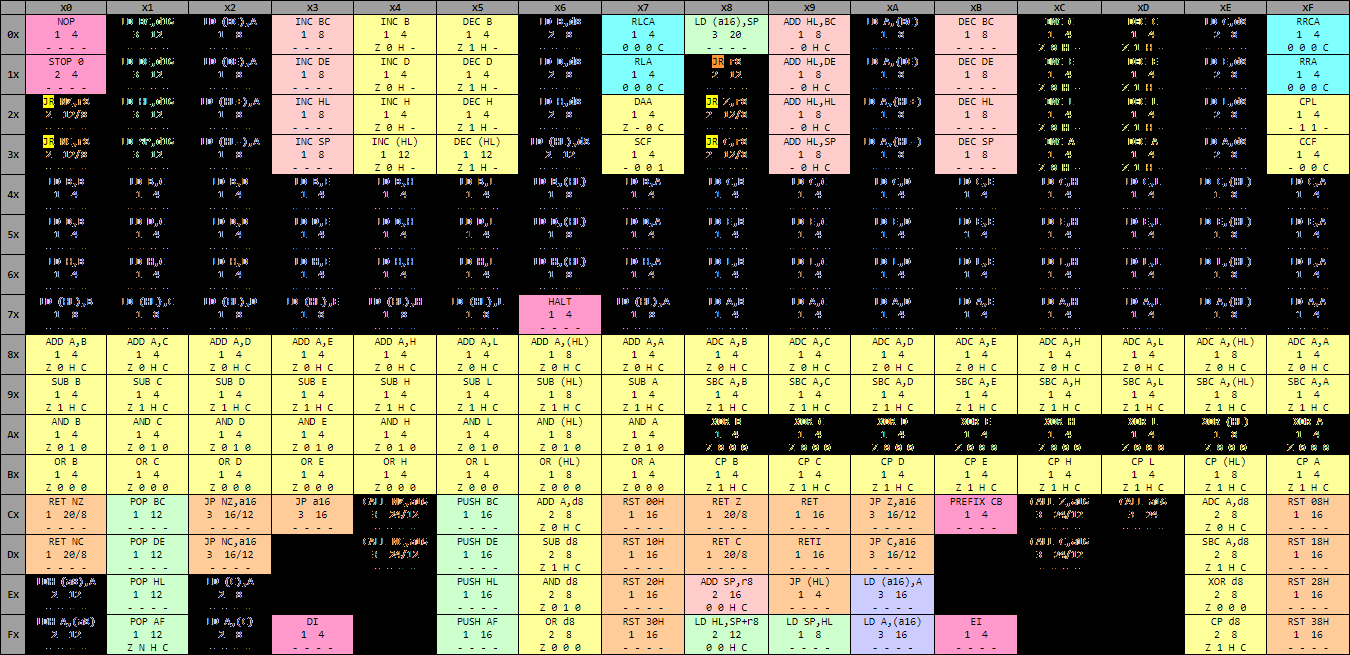
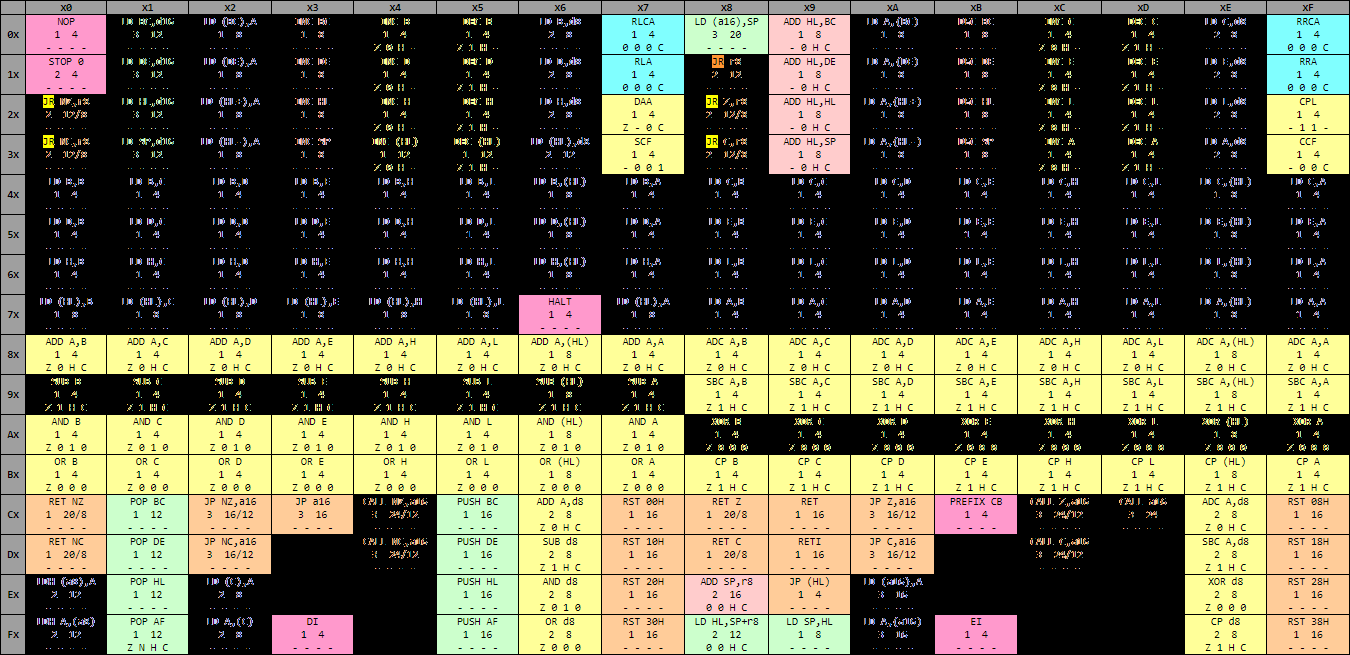
...

diff --git a/gbCPU.decode.c b/gbCPU.decode.c
@@ -3,6 +3,7 @@
 
 #define OPL   "%s %d"
 #define OPR   "%s %s"
+#define OPB   "%s %0#4x"
 #define OPW   "%s %0#6x"
 #define OPRL  "%s %s, %d"
 #define OPRR  "%s %s, %s"
@@ -10,6 +11,8 @@
 #define OPRW  "%s %s, %0#6x"
 #define OPBMR "%s (%0#4x), %s"
 #define OPRBM "%s %s, (%0#4x)"
+#define OPWMR "%s (%0#6x), %s"
+#define OPRWM "%s %s, (%0#6x)"
 
 void DecodeExecuteCB(BYTE opcode, FILE *output);
 
@@ -45,6 +48,16 @@ void DecodeExecute(BYTE opcode, FILE *output)
         case 0x3a: fprintf(output, OPRR, "LD", "A", "(HL-)");
                    break;
 
+        // Increment word
+        case 0x03: fprintf(output, OPR, "INC", "BC");
+                   break;
+        case 0x13: fprintf(output, OPR, "INC", "DE");
+                   break;
+        case 0x23: fprintf(output, OPR, "INC", "HL");
+                   break;
+        case 0x33: fprintf(output, OPR, "INC", "SP");
+                   break;                                      
+
         // Load immediate byte into register
         case 0x06: fprintf(output, OPRB, "LD", "B", Fetch(output));
                    break;
@@ -63,24 +76,50 @@ void DecodeExecute(BYTE opcode, FILE *output)
         case 0x3e: fprintf(output, OPRB, "LD", "A", Fetch(output));
                    break;                                                                                               
 
-        // Increment
+        // Decrement word
+        case 0x0b: fprintf(output, OPR, "DEC", "BC");
+                   break;
+        case 0x1b: fprintf(output, OPR, "DEC", "DE");
+                   break;
+        case 0x2b: fprintf(output, OPR, "DEC", "HL");
+                   break;
+        case 0x3b: fprintf(output, OPR, "DEC", "SP");
+                   break;                                   
+
+        // Increment byte
+        case 0x04: fprintf(output, OPR, "INC", "B");
+                   break;
         case 0x0c: fprintf(output, OPR, "INC", "C");
+                   break;
+        case 0x14: fprintf(output, OPR, "INC", "D");
                    break;
         case 0x1c: fprintf(output, OPR, "INC", "E");
                    break;
+        case 0x24: fprintf(output, OPR, "INC", "H");
+                   break;
         case 0x2c: fprintf(output, OPR, "INC", "L");
+                   break;
+        case 0x34: fprintf(output, OPR, "INC", "(HL)");
                    break;
         case 0x3c: fprintf(output, OPR, "INC", "A");
                    break;
 
-        // Decrement
-        case 0x0d: fprintf(output, OPR, "INC", "C");
+        // Decrement byte
+        case 0x05: fprintf(output, OPR, "DEC", "B");
                    break;
-        case 0x1d: fprintf(output, OPR, "INC", "E");
+        case 0x0d: fprintf(output, OPR, "DEC", "C");
                    break;
-        case 0x2d: fprintf(output, OPR, "INC", "L");
+        case 0x15: fprintf(output, OPR, "DEC", "D");
                    break;
-        case 0x3d: fprintf(output, OPR, "INC", "A");
+        case 0x1d: fprintf(output, OPR, "DEC", "E");
+                   break;
+        case 0x25: fprintf(output, OPR, "DEC", "H");
+                   break;
+        case 0x2d: fprintf(output, OPR, "DEC", "L");
+                   break;
+        case 0x35: fprintf(output, OPR, "DEC", "(HL)");
+                   break;
+        case 0x3d: fprintf(output, OPR, "DEC", "A");
                    break;                                                                                                                                     
 
         // Jump relative to current PC
@@ -237,6 +276,24 @@ void DecodeExecute(BYTE opcode, FILE *output)
         case 0x7f: fprintf(output, OPRR, "LD", "A", "A");
                    break;  
 
+        // Subtract register / memory
+        case 0x90: fprintf(output, OPR, "SUB", "B");
+                   break;
+        case 0x91: fprintf(output, OPR, "SUB", "C");
+                   break;
+        case 0x92: fprintf(output, OPR, "SUB", "D");
+                   break;
+        case 0x93: fprintf(output, OPR, "SUB", "E");
+                   break;
+        case 0x94: fprintf(output, OPR, "SUB", "H");
+                   break;
+        case 0x95: fprintf(output, OPR, "SUB", "L");
+                   break;
+        case 0x96: fprintf(output, OPR, "SUB", "(HL)");
+                   break;
+        case 0x97: fprintf(output, OPR, "SUB", "A");
+                   break;                                                                                                                  
+
         // Xor register / memory
         case 0xa8: fprintf(output, OPR, "XOR", "B");
                    break;
@@ -282,6 +339,16 @@ void DecodeExecute(BYTE opcode, FILE *output)
         case 0xe2: fprintf(output, OPRR, "LD", "(C)", "A");
                    break;
         case 0xf2: fprintf(output, OPRR, "LD", "A", "(C)");
+                   break;
+
+        // Load / Store word immediate into register A
+        case 0xea: fprintf(output, OPWMR, "LD", GetImmediateWord(output), "A");
+                   break;
+        case 0xfa: fprintf(output, OPRWM, "LD", "A", GetImmediateWord(output));
+                   break;
+
+        // Compare immediate byte with register A (and set appropriate flags)
+        case 0xfe: fprintf(output, OPB, "CP", Fetch(output));
                    break;
     }
 }

diff --git a/gbCPU.c b/gbCPU.c
@@ -1,7 +1,6 @@
 #include <stdio.h>
 #include <stdlib.h>
 #include <SDL2/SDL.h>
-
 #include "gbCPU.h"
 
 int main(int argc, char **argv)
